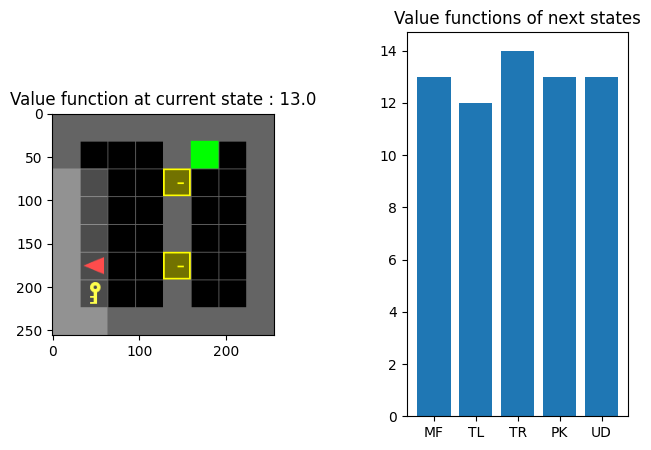
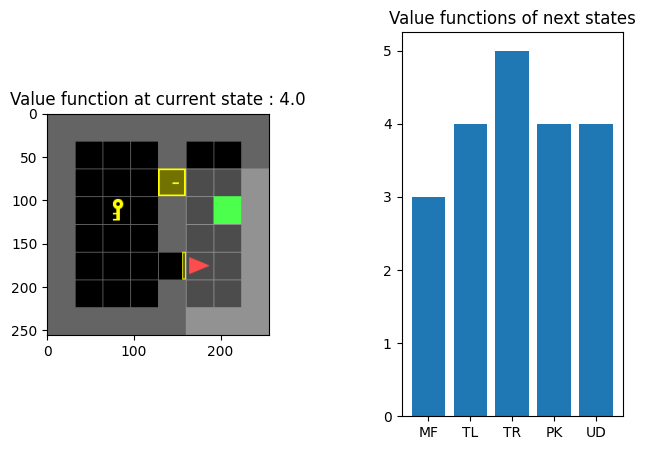
Dynamic Programming for Deterministic Shortest Path problem. Added value function visualisation

diff --git a/doorkey.py b/doorkey.py
@@ -353,6 +353,6 @@ def partB():
 
 if __name__ == '__main__':
     #example_use_of_gym_env()
-    partA()
-    # partB()
+    # partA()
+    partB()
     
